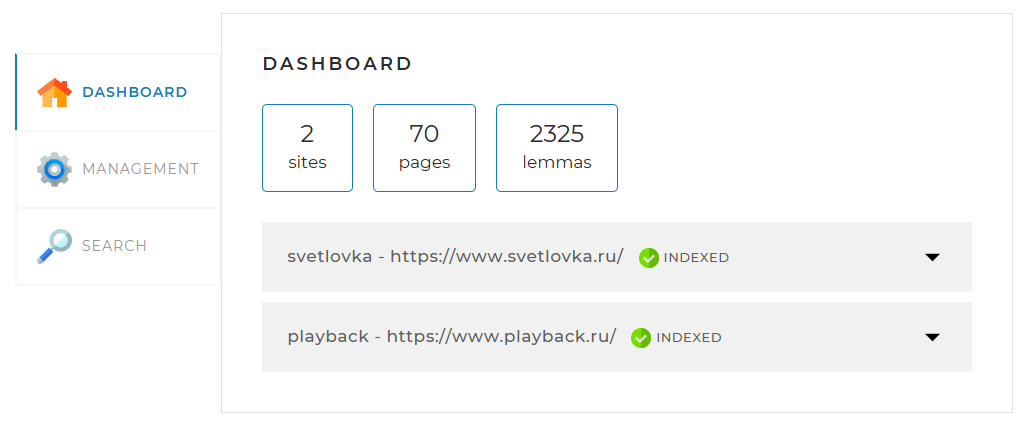
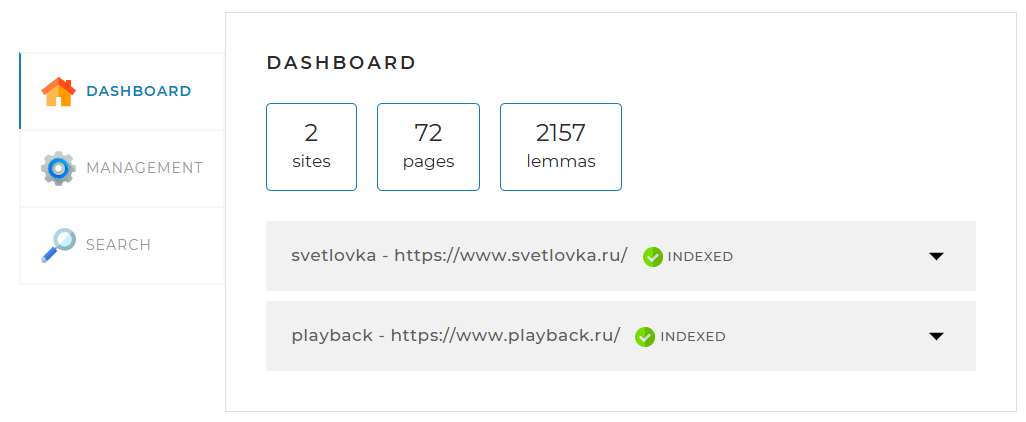
My final project v5

diff --git a/src/main/java/searchengine/services/SearchServiceImpl.java b/src/main/java/searchengine/services/SearchServiceImpl.java
@@ -17,6 +17,7 @@ import searchengine.utils.snippet.SnippetSearch;
 import java.time.LocalTime;
 import java.time.temporal.ChronoUnit;
 import java.util.*;
+import java.util.regex.Pattern;
 import java.util.stream.Collectors;
 
 @Slf4j
@@ -65,7 +66,7 @@ public class SearchServiceImpl implements SearchService {
             }
 
             lastQuery = query;
-            data = getDataList(indexes, queryLemmas);
+            data = getDataList(indexes, queryLemmas, query);
             endSearchPrint(data.size());
 
             return buildResponse(offset != null ? offset : 0,
@@ -142,7 +143,7 @@ public class SearchServiceImpl implements SearchService {
         return repositoryIndex.findByLemmasAndPages(lemmas, allPages);
     }
 
-    private List<DataSearchItem> getDataList(List<Index> indexes, Set<String> queryLemmas) {
+    private List<DataSearchItem> getDataList(List<Index> indexes, Set<String> queryLemmas, String originalQuery) {
         List<RelevancePage> relevancePages = getRelevantList(indexes);
         List<DataSearchItem> result = new ArrayList<>();
 
@@ -156,18 +157,36 @@ public class SearchServiceImpl implements SearchService {
             if (title.length() > 50) {
                 title = title.substring(0, 50).concat("...");
             }
-            item.setTitle(title);
+            item.setTitle(highlightOriginalQuery(title, originalQuery));
             item.setRelevance(page.getRelevance());
 
             String content = Jsoup.parse(page.getPage().getContent()).body().text();
-            item.setSnippet(SnippetSearch.find(content, queryLemmas));
+            String snippet = SnippetSearch.find(content, queryLemmas);
 
+            // Если не нашли совпадений по леммам, пытаемся найти оригинальный запрос
+            if (!snippet.contains("<b>") && !originalQuery.isEmpty()) {
+                snippet = highlightOriginalQuery(content, originalQuery);
+                if (snippet.length() > 160) {
+                    snippet = snippet.substring(0, 160) + "...";
+                }
+            }
+
+            item.setSnippet(snippet);
             result.add(item);
         }
 
         return result.stream()
                 .sorted(Comparator.comparingDouble(DataSearchItem::getRelevance).reversed())
                 .collect(Collectors.toList());
+    }
+
+    private String highlightOriginalQuery(String text, String query) {
+        if (text == null || query == null || query.isEmpty()) {
+            return text;
+        }
+
+        // Ищем точное совпадение запроса (без учета регистра)
+        return text.replaceAll("(?i)(" + Pattern.quote(query) + ")", "<b>$1</b>");
     }
 
     private List<RelevancePage> getRelevantList(List<Index> indexes) {

diff --git a/src/main/java/searchengine/utils/snippet/SnippetSearch.java b/src/main/java/searchengine/utils/snippet/SnippetSearch.java
@@ -31,7 +31,7 @@ public class SnippetSearch {
         }
 
         return snippets.isEmpty()
-                ? truncateSnippet(cleanText)
+                ? truncateSnippet(highlightQueryInText(cleanText, lemmas, finder))
                 : String.join("<br/><br/>", snippets);
     }
 
@@ -43,6 +43,7 @@ public class SnippetSearch {
                 List<String> wordLemmas = finder.getNormalForms(cleanWord);
                 for (String lemma : lemmas) {
                     if (wordLemmas.contains(lemma)) {
+                        // Выделяем полное слово, а не только лемму
                         words[i] = words[i].replaceAll(
                                 "(?i)(" + Pattern.quote(cleanWord) + ")",
                                 "<b>$1</b>"
@@ -50,6 +51,20 @@ public class SnippetSearch {
                         break;
                     }
                 }
+            }
+        }
+        return String.join(" ", words);
+    }
+
+    private static String highlightQueryInText(String text, Set<String> lemmas, LemmaFinder finder) {
+        String[] words = text.split(" ");
+        for (int i = 0; i < words.length; i++) {
+            String cleanWord = words[i].replaceAll("[^\\p{L}]", "").toLowerCase();
+            if (!cleanWord.isEmpty() && lemmas.contains(cleanWord)) {
+                words[i] = words[i].replaceAll(
+                        "(?i)(" + Pattern.quote(cleanWord) + ")",
+                        "<b>$1</b>"
+                );
             }
         }
         return String.join(" ", words);

diff --git a/src/main/java/searchengine/utils/morphology/LemmaFinder.java b/src/main/java/searchengine/utils/morphology/LemmaFinder.java
@@ -34,7 +34,7 @@ public class LemmaFinder {
         Map<String, Integer> lemmas = new HashMap<>();
 
         for (String token : tokens) {
-            if (token.isBlank()) {
+            if (token.isBlank() || token.length() == 1) { // Исключаем слова из одной буквы
                 continue;
             }
 
@@ -50,7 +50,7 @@ public class LemmaFinder {
     }
 
     public List<String> getNormalForms(String word) {
-        if (word == null || word.isEmpty()) {
+        if (word == null || word.isEmpty() || word.length() == 1) { // Исключаем слова из одной буквы
             return Collections.emptyList();
         }
 
